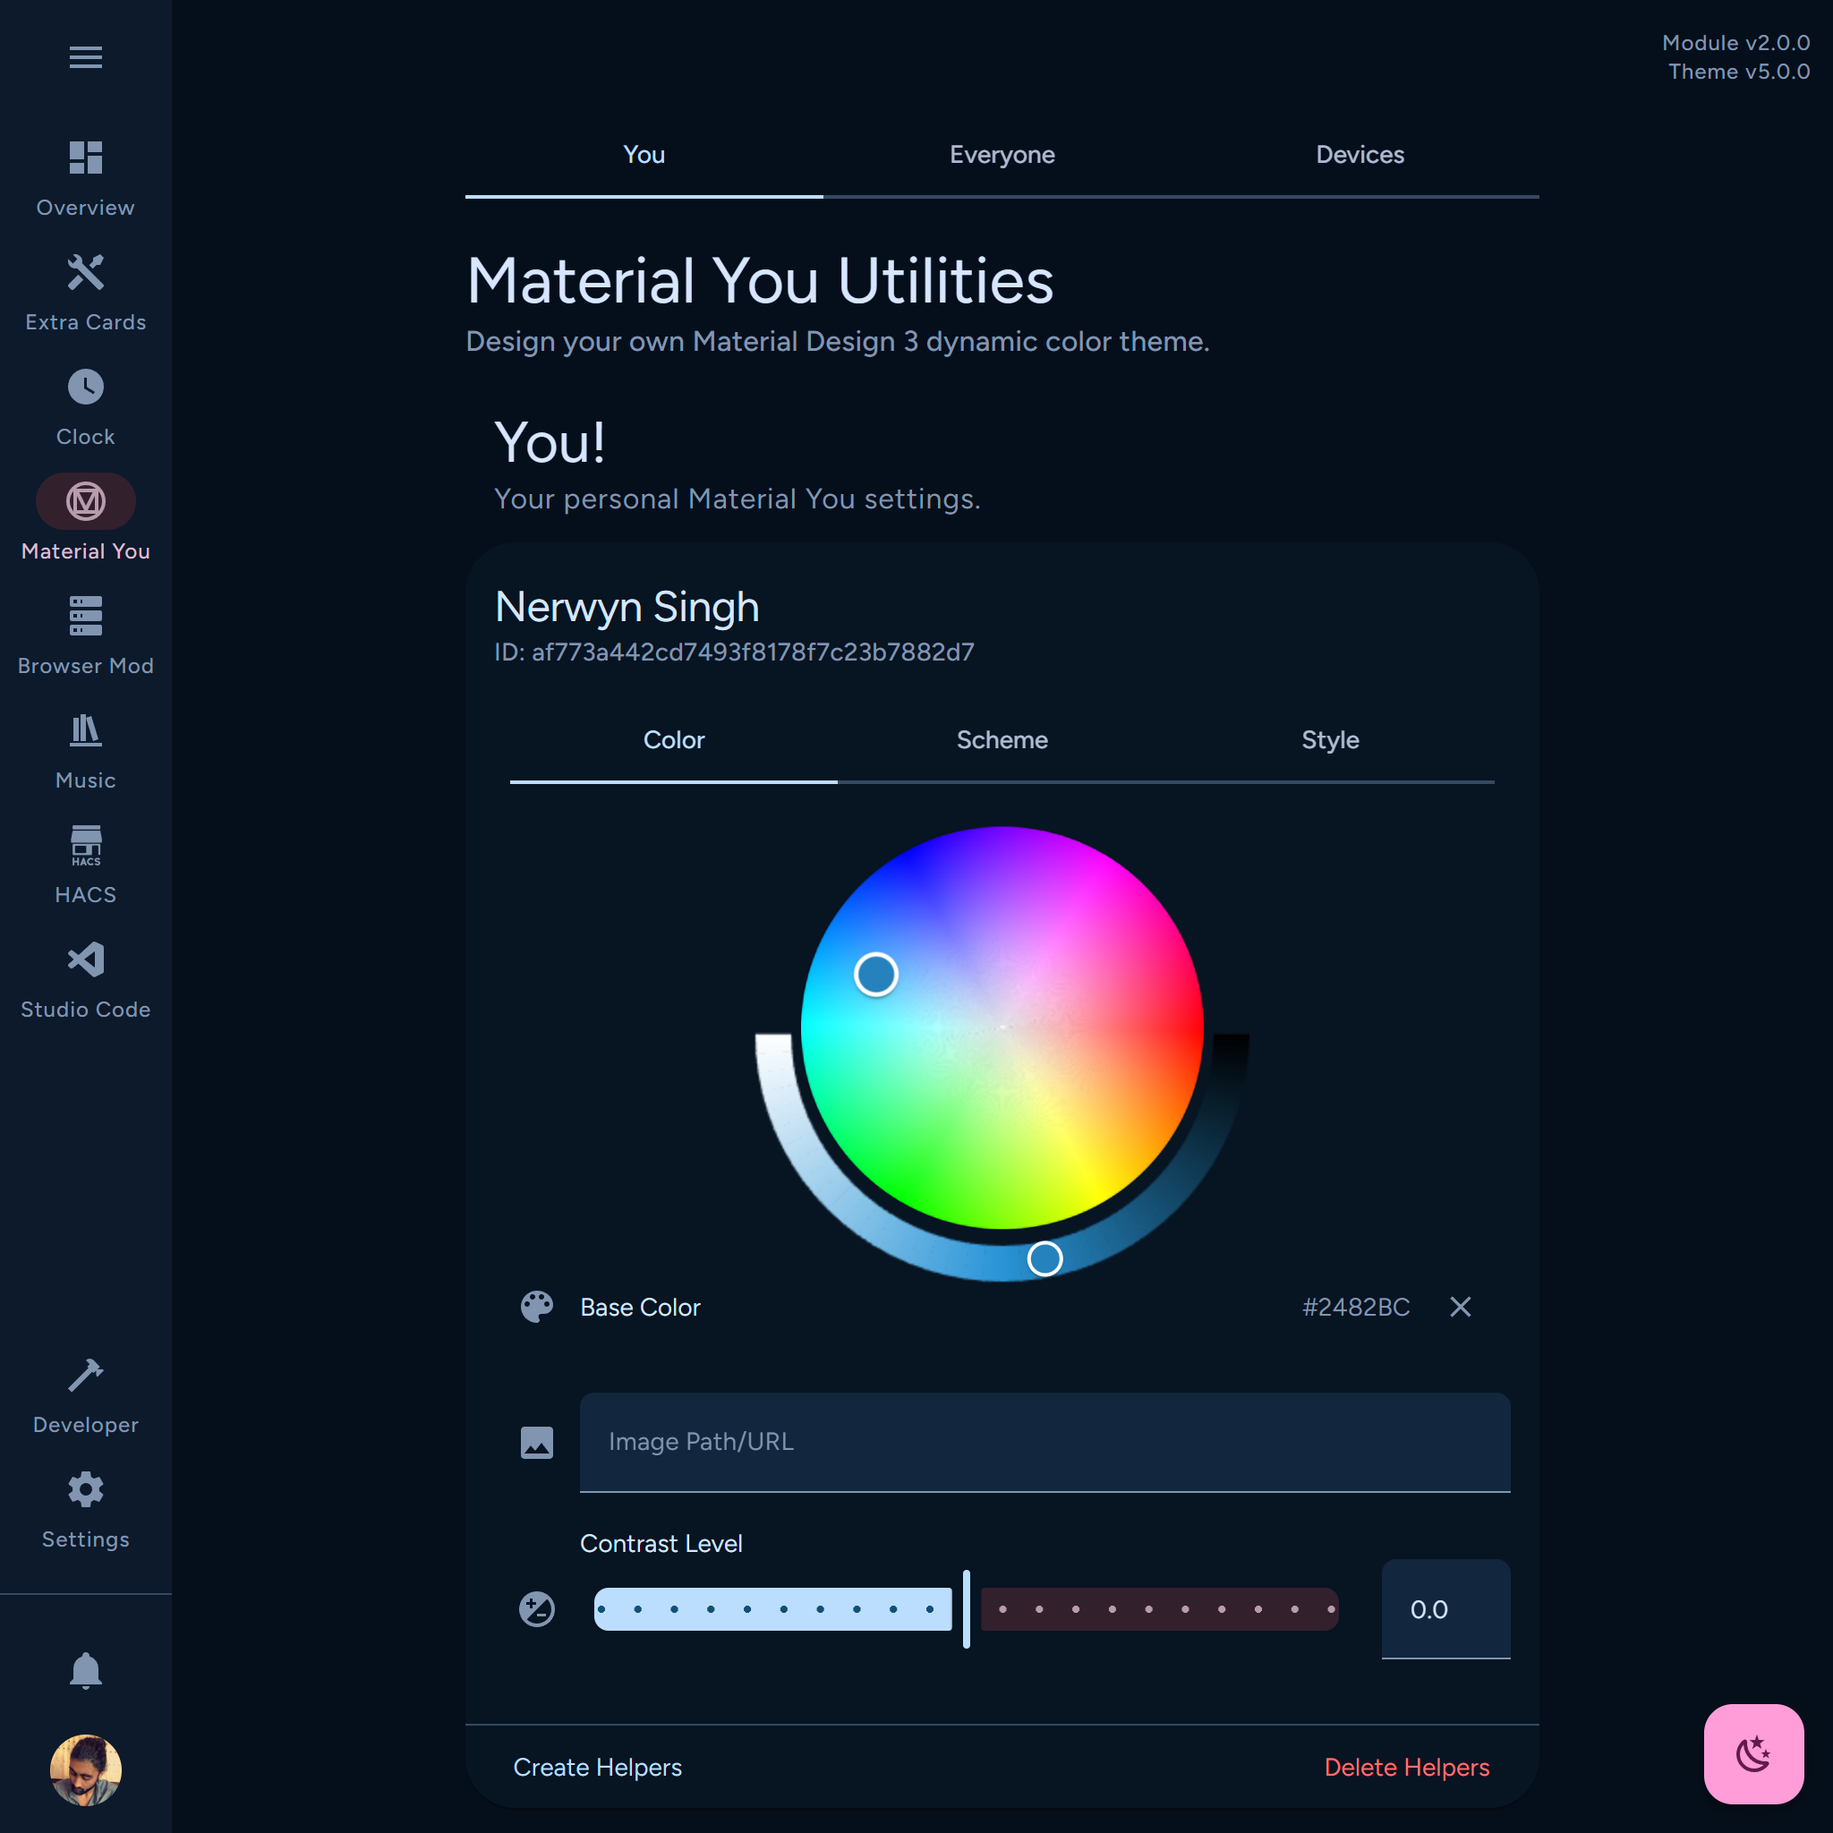
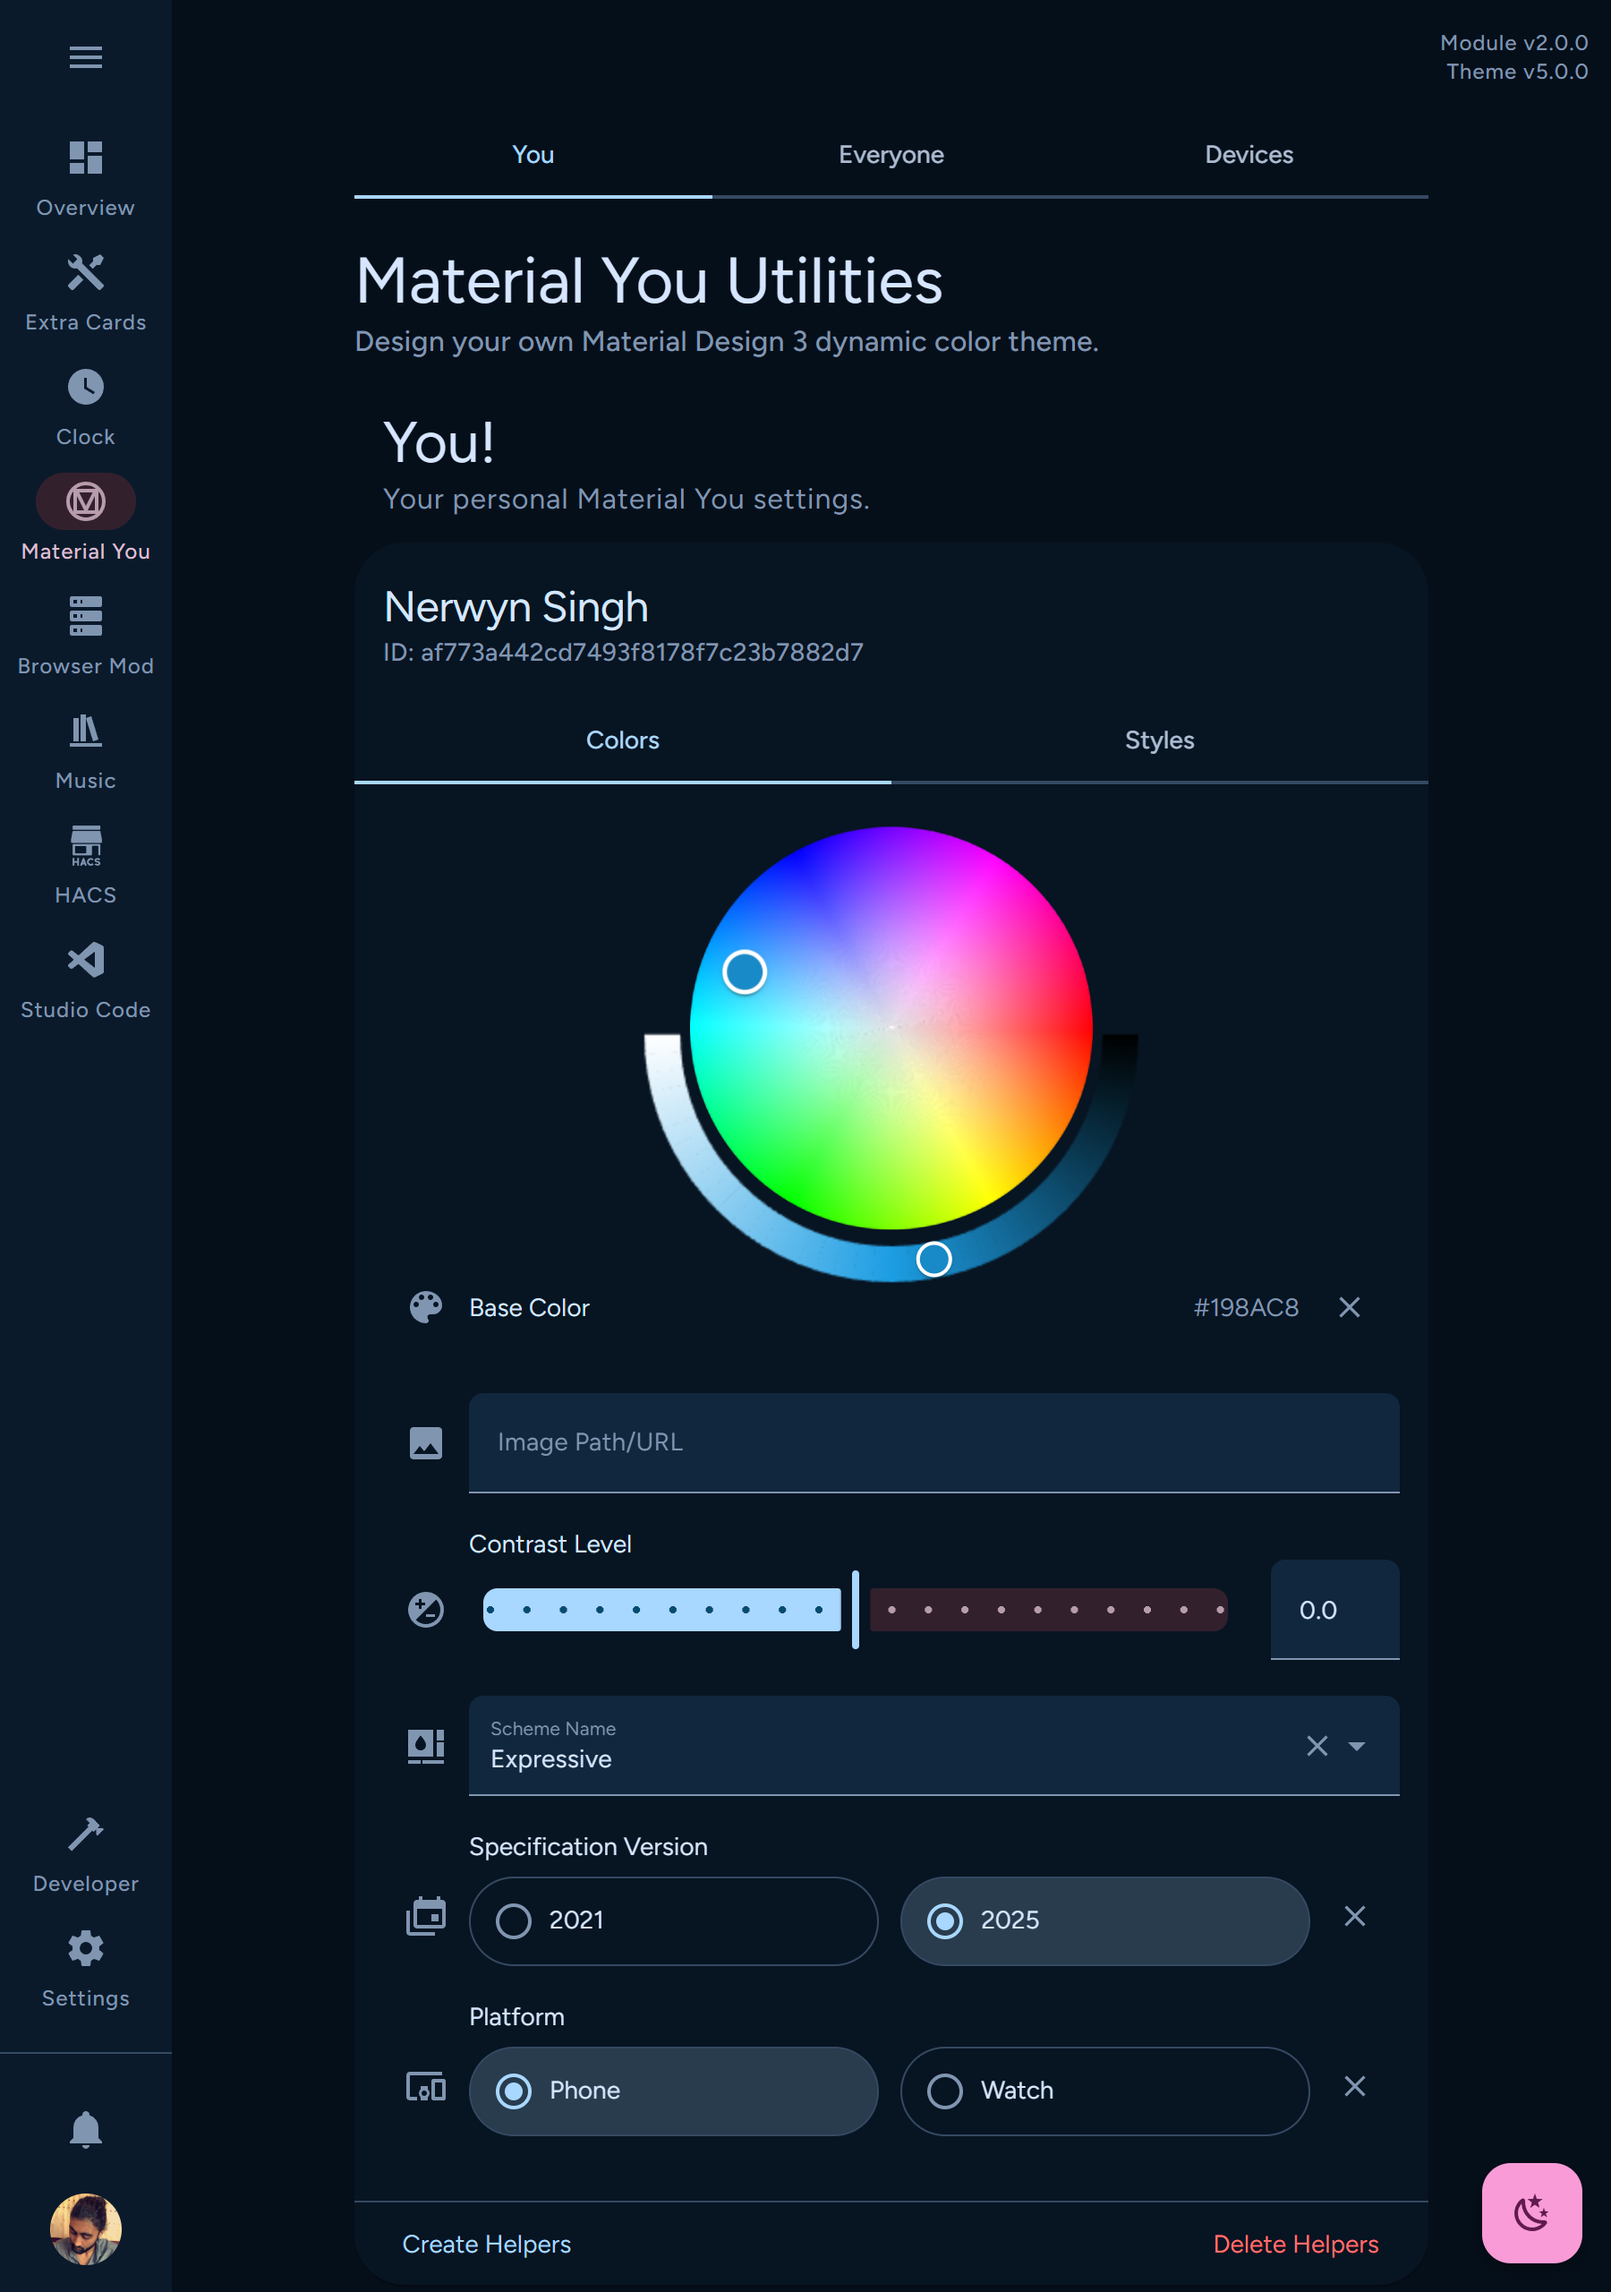
update README only two card tabs

diff --git a/README.md b/README.md
@@ -81,9 +81,9 @@ The third tab is for device specific settings. You can setup input helpers speci
 
 ## Settings Cards
 
-Each settings card has the same fields for users, devices, and global settings. Setting are divided into three tabs - color, scheme, and styles.
+Each settings card has the same fields for users, devices, and global settings. Setting are divided into two tabs - colors and styles.
 
-### Color
+### Colors
 
 #### Base Color
 
@@ -126,8 +126,6 @@ Note that changing image file by itself but not changing the name will not trigg
 #### Contrast Level
 
 The contrast level is a number from -1 to 1 which defines how much colors in the theme will differ and how bright they are.
-
-### Scheme
 
 #### Scheme Name
 
